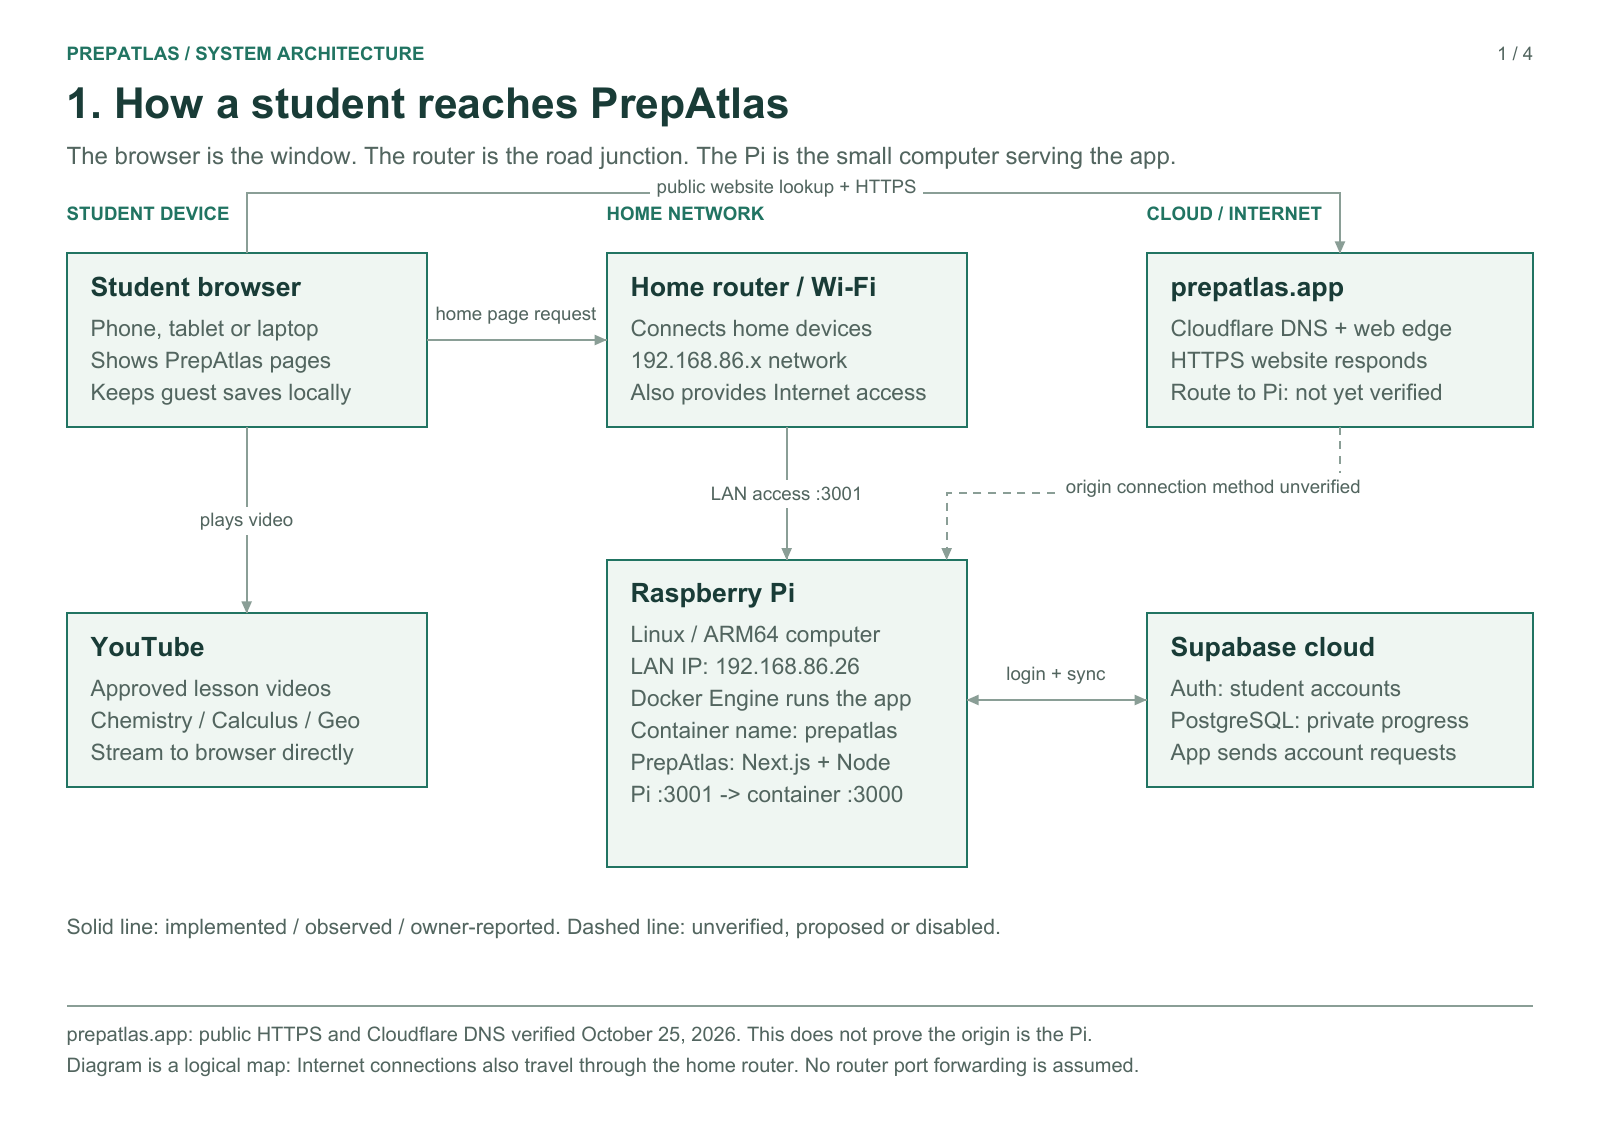
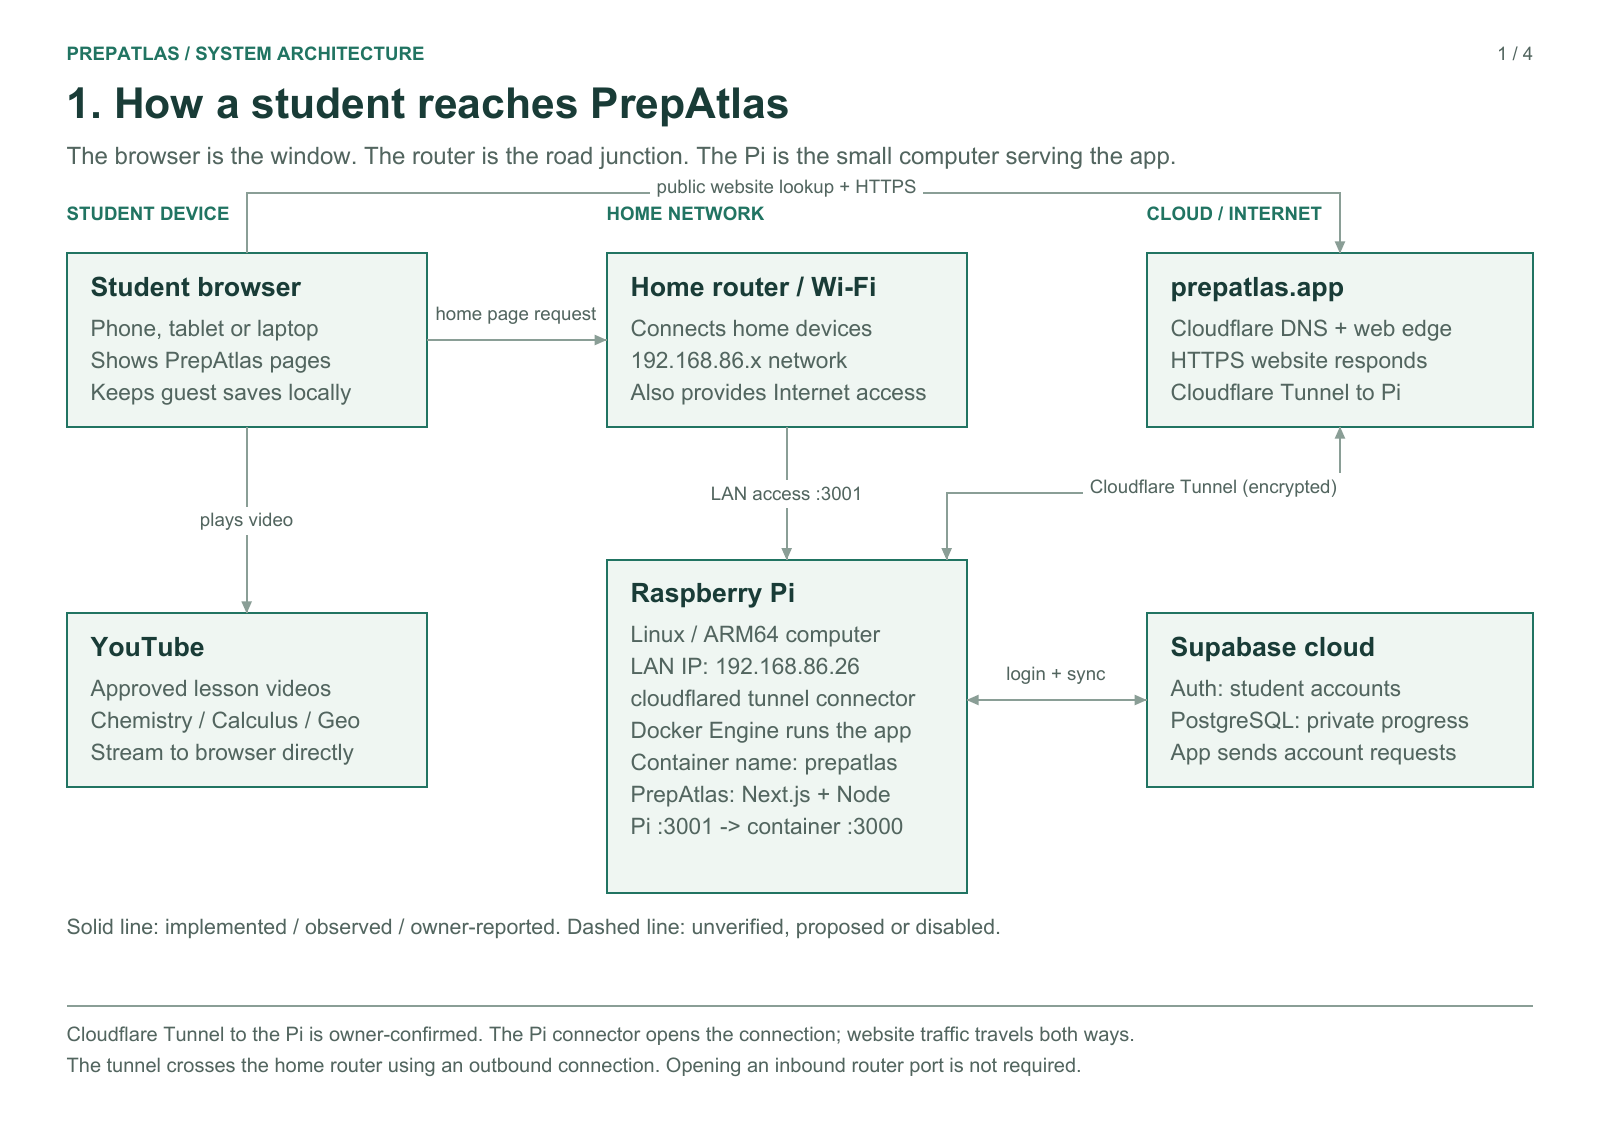
Add confirmed Cloudflare Tunnel and Pi connector to architecture diagrams

diff --git a/output/pdf/prepatlas-architecture.md b/output/pdf/prepatlas-architecture.md
@@ -10,7 +10,7 @@ Prepared October 25, 2026. This explains the existing project; it does not chang
 4. RepoFlow keeps that box on a shelf until the Raspberry Pi downloads it.
 5. The Pi runs the box as a container and sends website pages to the browser.
 6. The router connects devices at home and provides their Internet connection.
-7. `prepatlas.app` is the easy-to-remember website name. Cloudflare supplies DNS and the public HTTPS edge.
+7. `prepatlas.app` is the easy-to-remember website name. Cloudflare supplies DNS and the public HTTPS edge. Cloudflare Tunnel connects that edge to the Pi's PrepAtlas app.
 8. Supabase handles accounts and private cloud progress. YouTube sends the lesson video streams.
 9. PuTTY is our remote control for the Pi. It is not where the website lives.
 
@@ -29,7 +29,8 @@ Prepared October 25, 2026. This explains the existing project; it does not chang
 | Docker container `prepatlas` | Running app box | Pi port 3001 maps to app port 3000. Replacing the box can keep its named storage volume. |
 | PuTTY / SSH | Remote control + locked connection | Owner command-line access to the Pi, normally on TCP port 22. PuTTY is not a reverse proxy, browser or web host. |
 | `prepatlas.app` | Easy address | Public domain name. DNS tells clients which network address to contact. |
-| Cloudflare | Address book + HTTPS front door | Authoritative Cloudflare nameservers and a public HTTPS response containing PrepAtlas branding were observed. The exact origin route was not inspected. |
+| Cloudflare | Address book + HTTPS front door | Authoritative Cloudflare nameservers and a public HTTPS response containing PrepAtlas branding were observed. Cloudflare Tunnel carries website traffic to the Pi, as confirmed by owner-supplied feedback. |
+| Cloudflare Tunnel / cloudflared | Private passage to the Pi | The Pi's tunnel connector initiates an encrypted outbound connection to Cloudflare. Requests and responses travel through it to the app. This is separate from PuTTY/SSH; an inbound router port does not need to be opened. |
 | Supabase Auth | Account desk | Email sign-in, sessions and recovery. Google OAuth integration is prepared; registration and Google sign-in remain closed in the saved configuration. |
 | Google OAuth | Optional sign-in helper | An alternative identity provider through Supabase, not the place where notes or grades are stored. Activation is not assumed. |
 | Supabase PostgreSQL | Private cloud notebook | Profiles, courses, notes, topic progress, individual watched videos, instructor preferences, saved resources and completed Practice attempts. |
@@ -55,15 +56,18 @@ Prepared October 25, 2026. This explains the existing project; it does not chang
 ## Verification and boundaries
 
 - On October 25, public DNS for `prepatlas.app` returned Cloudflare addresses and nameservers. Its HTTPS page returned 200 with `server: cloudflare` and PrepAtlas branding.
-- The connection from Cloudflare to its origin was not inspected. Do not infer Cloudflare Tunnel, an open router port, reverse-proxy software or a particular public IP from these observations.
+- **October 25 correction:** owner-supplied feedback confirms that Cloudflare Tunnel connects Cloudflare and the Pi. The overview now shows this as a solid connection and names the `cloudflared` connector on the Pi. This confirmation is separate from our earlier DNS/HTTPS observations; no private tunnel configuration, credentials or service logs were accessed.
+- The Pi connector opens the tunnel outbound through the home router, and web requests/responses use that connection. No inbound router-port forwarding is required for Cloudflare Tunnel. The specific tunnel ID, ingress origin URL and whether the connector is a Linux service or separate container were not inspected; the diagram does not invent them.
 - The Pi host, running Docker container and port mappings come from previously verified diagnostics and the owner's terminal output. PuTTY usage is owner-reported.
 - The repository checkpoint at the start of this documentation task was `f622e3a`. App implementation is shown separately from live-service verification.
-- An SSH tunnel was suggested for private loopback login testing. It is not verified active. Successful public-domain login, OAuth, two-device sync and current Pi environment settings were not tested for this diagram.
+- An SSH tunnel was suggested for private loopback login testing. It is separate from the confirmed Cloudflare Tunnel and is not verified active. Successful public-domain login, OAuth, two-device sync and current Pi environment settings were not tested for this diagram. Only this optional private test path remains dashed; the public Cloudflare Tunnel connection is solid.
 - Previously, LAN HTTP login failed because its origin differed from `APP_ORIGIN`. Do not remove origin checks or weaken cookie security. A real shared HTTPS origin needs matching app/provider configuration and testing.
 - Last known private addresses: PC `192.168.86.28`; Pi `192.168.86.26`. These can change. `127.0.0.1` always means the device on which the browser or command is running.
 - Browser guest data belongs to an exact origin. Changing IP, hostname or port does not automatically transfer it.
 - Registry publishing is not website deployment. No automatic GitHub-to-Pi deployment pipeline is configured in this project.
 - Feedback data on Windows and the Pi are separate. A similarly named Docker volume on two machines is not shared storage.
+
+Cloudflare's [Tunnel documentation](https://developers.cloudflare.com/cloudflare-one/networks/connectors/cloudflare-tunnel/) explains the outbound `cloudflared` connection and why inbound router ports are unnecessary. That provider guidance describes the mechanism; owner feedback establishes its use in this project.
 
 ## Editable diagrams
 
@@ -77,13 +81,15 @@ flowchart TB
   browser[Student browser]
   router[Home router / Wi-Fi]
   pi[Raspberry Pi / Linux<br/>Docker Engine / prepatlas container<br/>Pi port 3001 to app port 3000]
+  connector[cloudflared connector<br/>Runs on the Raspberry Pi]
   domain[prepatlas.app<br/>Cloudflare DNS + HTTPS edge]
   supabase[Supabase cloud<br/>Accounts + private PostgreSQL data]
   youtube[YouTube<br/>Approved lesson streams]
   browser -->|home access| router
   router -->|local network| pi
   browser -->|public HTTPS| domain
-  domain -.->|origin route unverified| pi
+  connector <-->|Cloudflare Tunnel / outbound initiated by Pi| domain
+  connector <-->|forwards website traffic| pi
   pi <-->|account + progress APIs| supabase
   browser -->|video playback| youtube
 ```
